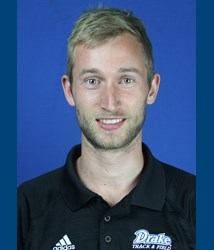
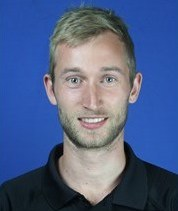
Initial Commit

diff --git a/index.html b/index.html
@@ -81,7 +81,7 @@
                                     Software Developer
                                 </h4>
                                 <p>
-                                    B.S. in Computer Science | Former D1 scholarship Track and Field athlete | Dutch
+                                    B.S. in Computer Science | Former D1 Scholarship Track and Field Athlete | Dutch
                                 </p>
                             </div>
                         </div>
@@ -129,15 +129,6 @@
                               </div>
                             </div>
                           </div>
-                          <!--<div class="g1">
-                            <div class="item-box clearfix">
-                              <i class="icon-twitter"></i>
-                              <div class="item-data">
-                                <h3><a href="http://twitter.com/Bvleersum">@Bvleersum</a></h3>
-                                <p>Twitter Handle</p>
-                              </div>
-                            </div>
-                          </div>-->
                         </div>
                     </section><!-- content -->
                 </div>
@@ -147,63 +138,61 @@
                     <section class="clearfix">
                         <div class="g2">
                             <h3>
-                                Work Experience
-                            </h3>
-                            <ul class="no-list work">
-                                <li>
-                                    <h5>
-                                        Freelance Web Designer
-                                    </h5><span class="label label-info">2009-2010</span>
-                                    <p>
-                                        Lorem ipsum dolor sit amet, consectetur adipiscing elit. Aliquam sodales urna non odio egestas tempor. Nunc vel vehicula ante.
-                                    </p>
-                                </li>
-                                <li>
-                                    <h5>
-                                        Python Programmer
-                                    </h5><span class="label label-info">2010-2011</span>
-                                    <p>
-                                        Lorem ipsum dolor sit amet, consectetur adipiscing elit. Aliquam sodales urna non odio egestas tempor. Nunc vel vehicula ante.
-                                    </p>
-                                </li>
-                                <li>
-                                    <h5>
-                                        Social Media Lunatic
-                                    </h5><span class="label label-info">2011-2012</span>
-                                    <p>
-                                        Lorem ipsum dolor sit amet, consectetur adipiscing elit. Aliquam sodales urna non odio egestas tempor. Nunc vel vehicula ante.
-                                    </p>
-                                </li>
-                                <li>
-                                    <h5>
-                                        Being Awesome
-                                    </h5><span class="label label-danger">2012-Till Death</span>
-                                    <p>
-                                        Lorem ipsum dolor sit amet, consectetur adipiscing elit. Aliquam sodales urna non odio egestas tempor. Nunc vel vehicula ante.
-                                    </p>
-                                </li>
-                            </ul>
-                            <h3>
                                 Education
                             </h3>
                             <ul class="no-list work">
                                 <li>
                                     <h5>
-                                        NoUse School
-                                    </h5><span class="label label-success">2001-2002</span>
+                                        Drake University - Bachelor of Science in Computer Science 
+                                    </h5><span class="label label-success">2015-2018</span>
                                     <p>
-                                        Lorem ipsum dolor sit amet, consectetur adipiscing elit. Aliquam sodales urna non odio egestas tempor. Nunc vel vehicula ante.
+                                        &#8226; Drake University Presidential Transfer Award (Academic Merit)
+                                        <br>&#8226; Year-around Division 1 scholarship track and field athlete
+                                        <br>&#8226; Most valuable newcomer award
                                     </p>
                                 </li>
                                 <li>
                                     <h5>
-                                        Super Useless College
+                                        Santa Barbara City College - Associates Degree in Math and Science 
                                     </h5><span class="label label-warning">2002-2008</span>
                                     <p>
-                                        Lorem ipsum dolor sit amet, consectetur adipiscing elit. Aliquam sodales urna non odio egestas tempor. Nunc vel vehicula ante.
+                                        &#8226; Year-around CCCAA track and field athlete
+                                        <br>&#8226; Santa Barbara Roundtable award
+
                                     </p>
                                 </li>
                             </ul>
+                            
+                            <h3>
+                                Work Experience
+                            </h3>
+                            <ul class="no-list work">
+                                <li>
+                                    <h5>
+                                        Computer Science Capstone - Drake University
+                                    </h5><span class="label label-info">February 2017 - May 2017</span>
+                                    <p>
+                                        Built and programmed a Lego EV3 robot that was able to shoot 3-pointers on a scaled down basketball court with close to 100% accuracy. This project was written in Python.
+                                    </p>
+                                </li>
+                                <li>
+                                    <h5>
+                                        Lifeguard and Front Desk Monitor - Drake University
+                                    </h5><span class="label label-info">May 2017 - Present</span>
+                                    <p>
+                                        Ensure safety and security of individuals using Drake recreational facilities. 
+                                    </p>
+                                </li>
+                                <li>
+                                    <h5>
+                                        Track and Field Coach - AV Zaanland
+                                    </h5><span class="label label-info">June 2010 - August 2013</span>
+                                    <p>
+                                        Writing a training plan for the entire year and communicating this effectively with the athletes.
+                                    </p>
+                                </li>
+                            </ul>
+                            
                         </div>
                         <div class="g1">
                             <div class="sidebar">
@@ -211,60 +200,71 @@
                                     Skills
                                 </h3>
                                 <h5>
-                                    Software
-                                </h5>
-                                <div class="meter emerald">
-                                    <span style="width: 33.3%"><span>Photoshop</span></span>
-                                </div>
-                                <div class="meter carrot">
-                                    <span style="width: 90%"><span>Illustrator</span></span>
-                                </div>
-                                <div class="meter wisteria">
-                                    <span style="width: 60%"><span>InDesign</span></span>
-                                </div>
-                                <div class="meter sunflower">
-                                    <span style="width: 40%"><span>Firework</span></span>
-                                </div>
-                                <div class="meter midnight">
-                                    <span style="width: 70%"><span>Dreamweaver</span></span>
-                                </div>
-                                <div class="meter pomengrate">
-                                    <span style="width: 60%"><span>Microsoft Office</span></span>
-                                </div>
-                                <div class="meter asbestos">
-                                    <span style="width: 65%"><span>Linux</span></span>
-                                </div>
-                                <div class="break"></div>
-                                <h5>
-                                    Design
-                                </h5>
-                                <div class="meter emerald">
-                                    <span style="width: 33.3%"><span>User Interface</span></span>
-                                </div>
-                                <div class="meter carrot">
-                                    <span style="width: 90%"><span>Typography</span></span>
-                                </div>
-                                <div class="meter wisteria">
-                                    <span style="width: 60%"><span>Web Applications</span></span>
-                                </div>
-                                <div class="break"></div>
-                                <h5>
                                     Programming Language
                                 </h5>
                                 <div class="meter emerald">
-                                    <span style="width: 53.3%"><span>HTML/CSS</span></span>
+                                    <span style="width: 85%"><span>Java</span></span>
                                 </div>
                                 <div class="meter carrot">
-                                    <span style="width: 80%"><span>PHP/MySql</span></span>
+                                    <span style="width: 50%"><span>C++</span></span>
                                 </div>
                                 <div class="meter wisteria">
-                                    <span style="width: 95%"><span>jQuery/JavaScript</span></span>
-                                </div>
-                                <div class="meter sunflower">
-                                    <span style="width: 75%"><span>Ruby</span></span>
+                                    <span style="width: 67%"><span>HTML5</span></span>
                                 </div>
                                 <div class="meter asbestos">
-                                    <span style="width: 82%"><span>Python</span></span>
+                                    <span style="width: 75%"><span>Python</span></span>
+                                </div>
+                                <div class="meter pomengrate">
+                                    <span style="width: 85%"><span>SQL</span></span>
+                                </div>
+                                <div class="break"></div>
+                                <h5>
+                                    Operating Systems
+                                </h5>
+                                <div class="meter emerald">
+                                    <span style="width: 82%"><span>Windows</span></span>
+                                </div>
+                                <div class="meter carrot">
+                                    <span style="width: 85%"><span>MacOS</span></span>
+                                </div>
+                                <div class="meter wisteria">
+                                    <span style="width: 45%"><span>Linux</span></span>
+                                </div>
+                                <div class="break"></div>
+                                <h5>
+                                    DataBase
+                                </h5>
+                                <div class="meter emerald">
+                                    <span style="width: 40%"><span>MongoDB</span></span>
+                                </div>
+                                <div class="meter carrot">
+                                    <span style="width: 75%"><span>AWS</span></span>
+                                </div>
+                                <div class="break"></div>
+                                <h5>
+                                    Software
+                                </h5>
+                                <div class="meter emerald">
+                                    <span style="width: 50%"><span>Photoshop</span></span>
+                                </div>
+                                <div class="meter carrot">
+                                    <span style="width: 65%"><span>Illustrator</span></span>
+                                </div>
+                                <div class="meter wisteria">
+                                    <span style="width: 40%"><span>InDesign</span></span>
+                                </div>
+                                <div class="meter asbestos">
+                                    <span style="width: 80%"><span>Microsoft Office</span></span>
+                                </div>
+                                <div class="break"></div>
+                                <h5>
+                                    Languages 
+                                </h5>
+                                <div class="meter emerald">
+                                    <span style="width: 100%"><span>English</span></span>
+                                </div>
+                                <div class="meter carrot">
+                                    <span style="width: 100%"><span>Dutch</span></span>
                                 </div>
                             </div>
                         </div>
@@ -276,10 +276,10 @@
                     <section class="clearfix">
                         <div class="g1">
                             <div class="image">
-                                <img src="http://lorempixel.com/306/306/sports/1" alt="">
+                                <img src="https://cardgames.io/war/images/war-logo.png" alt="">
                                 <div class="image-overlay">
                                     <div class="image-link">
-                                        <a href="http://lorempixel.com/606/606/sports/1" class="btn">Full View</a>
+                                        <a href="http://lorempixel.com/606/606/sports/1" class="btn">View Code</a>
                                     </div>
                                 </div>
                             </div>
@@ -383,9 +383,9 @@
             </div>
         </div>
         <!-- End Tab Container -->
-       <footer>
+       <!--<footer>
             
-        </footer>
+        </footer>-->
     </div><!-- #main -->
 </div><!-- #main-container -->
 

diff --git a/css/main.css b/css/main.css
@@ -69,14 +69,14 @@ dt {font-family:Futura, "Century Gothic", AppleGothic, sans-serif}
 /* HYPERLINKS */
 a { 
   text-decoration: none;
-  color: #E74C3C;
+  color: #1047ba;
   -webkit-transition: color 0.1s linear, border 0.1s linear, opacity 0.1s linear, background-color 0.1s linear;
   -moz-transition: color 0.1s linear, border 0.1s linear, opacity 0.1s linear, background-color 0.1s linear;
   -ms-transition: color 0.1s linear, border 0.1s linear, opacity 0.1s linear, background-color 0.1s linear;
   -o-transition: color 0.1s linear, border 0.1s linear, opacity 0.1s linear, background-color 0.1s linear;
   transition: color 0.1s linear, border 0.1s linear, opacity 0.1s linear, background-color 0.1s linear;
 }
-a:hover, a:focus, a:active { text-decoration: none; border: none;color: #C0392B }
+a:hover, a:focus, a:active { text-decoration: none; border: none;color: #022877 }
 /* MEDIA */
 figure {margin: 0}
 img, object, embed, video {max-width: 100%; _width: 100%} /* Fluid images */
@@ -91,8 +91,8 @@ ins, mark {text-decoration: none}
 mark {background: #c47529}
 ins {background: #d49855}
 del {text-decoration: line-through}
-::-moz-selection {background: #E74C3C; color: #fff; text-shadow: none} /* selected text */
-::selection {background: #E74C3C; color: #fff; text-shadow: none} /* selected text */
+::-moz-selection {background: #1047ba; color: #fff; text-shadow: none} /* selected text */
+::selection {background: #1047ba; color: #fff; text-shadow: none} /* selected text */
 
 /* OTHERS */
 strong, b, dt { font-weight: bold}
@@ -195,7 +195,7 @@ body {width: 92%; margin: 0 auto} /* Center page without wrapper */
   padding: 30px 20px;
   background: #fff;
   border: 1px solid #f1f1f1;
-  box-shadow: 0px 6px #c0392b;
+  box-shadow: 0px 6px #022877;
   border-radius: 0px 0px 4px 4px;
 }
 
@@ -237,7 +237,7 @@ body {width: 92%; margin: 0 auto} /* Center page without wrapper */
 
 .tab a.active {
   padding-top: 10px;
-  color: #e74c3c;
+  color: #1047ba;
 }
 .tab a i{
   font-size: 16px;
@@ -418,7 +418,7 @@ body {width: 92%; margin: 0 auto} /* Center page without wrapper */
   display:inline-block;
   margin: 0 10px 10px 0;    
   padding: 14px 20px;  
-  background: #E74C3C;
+  background: #1047ba;
   color: #fff;
   font-weight: bold;
   font-size: 13px;
@@ -599,7 +599,7 @@ body {width: 92%; margin: 0 auto} /* Center page without wrapper */
   background-color: #2c3e50;
 }
 .pomengrate > span{
-  background-color: #c0392b;
+  background-color: #022877;
 }
 .asbestos > span{
   background-color: #7f8c8d;
